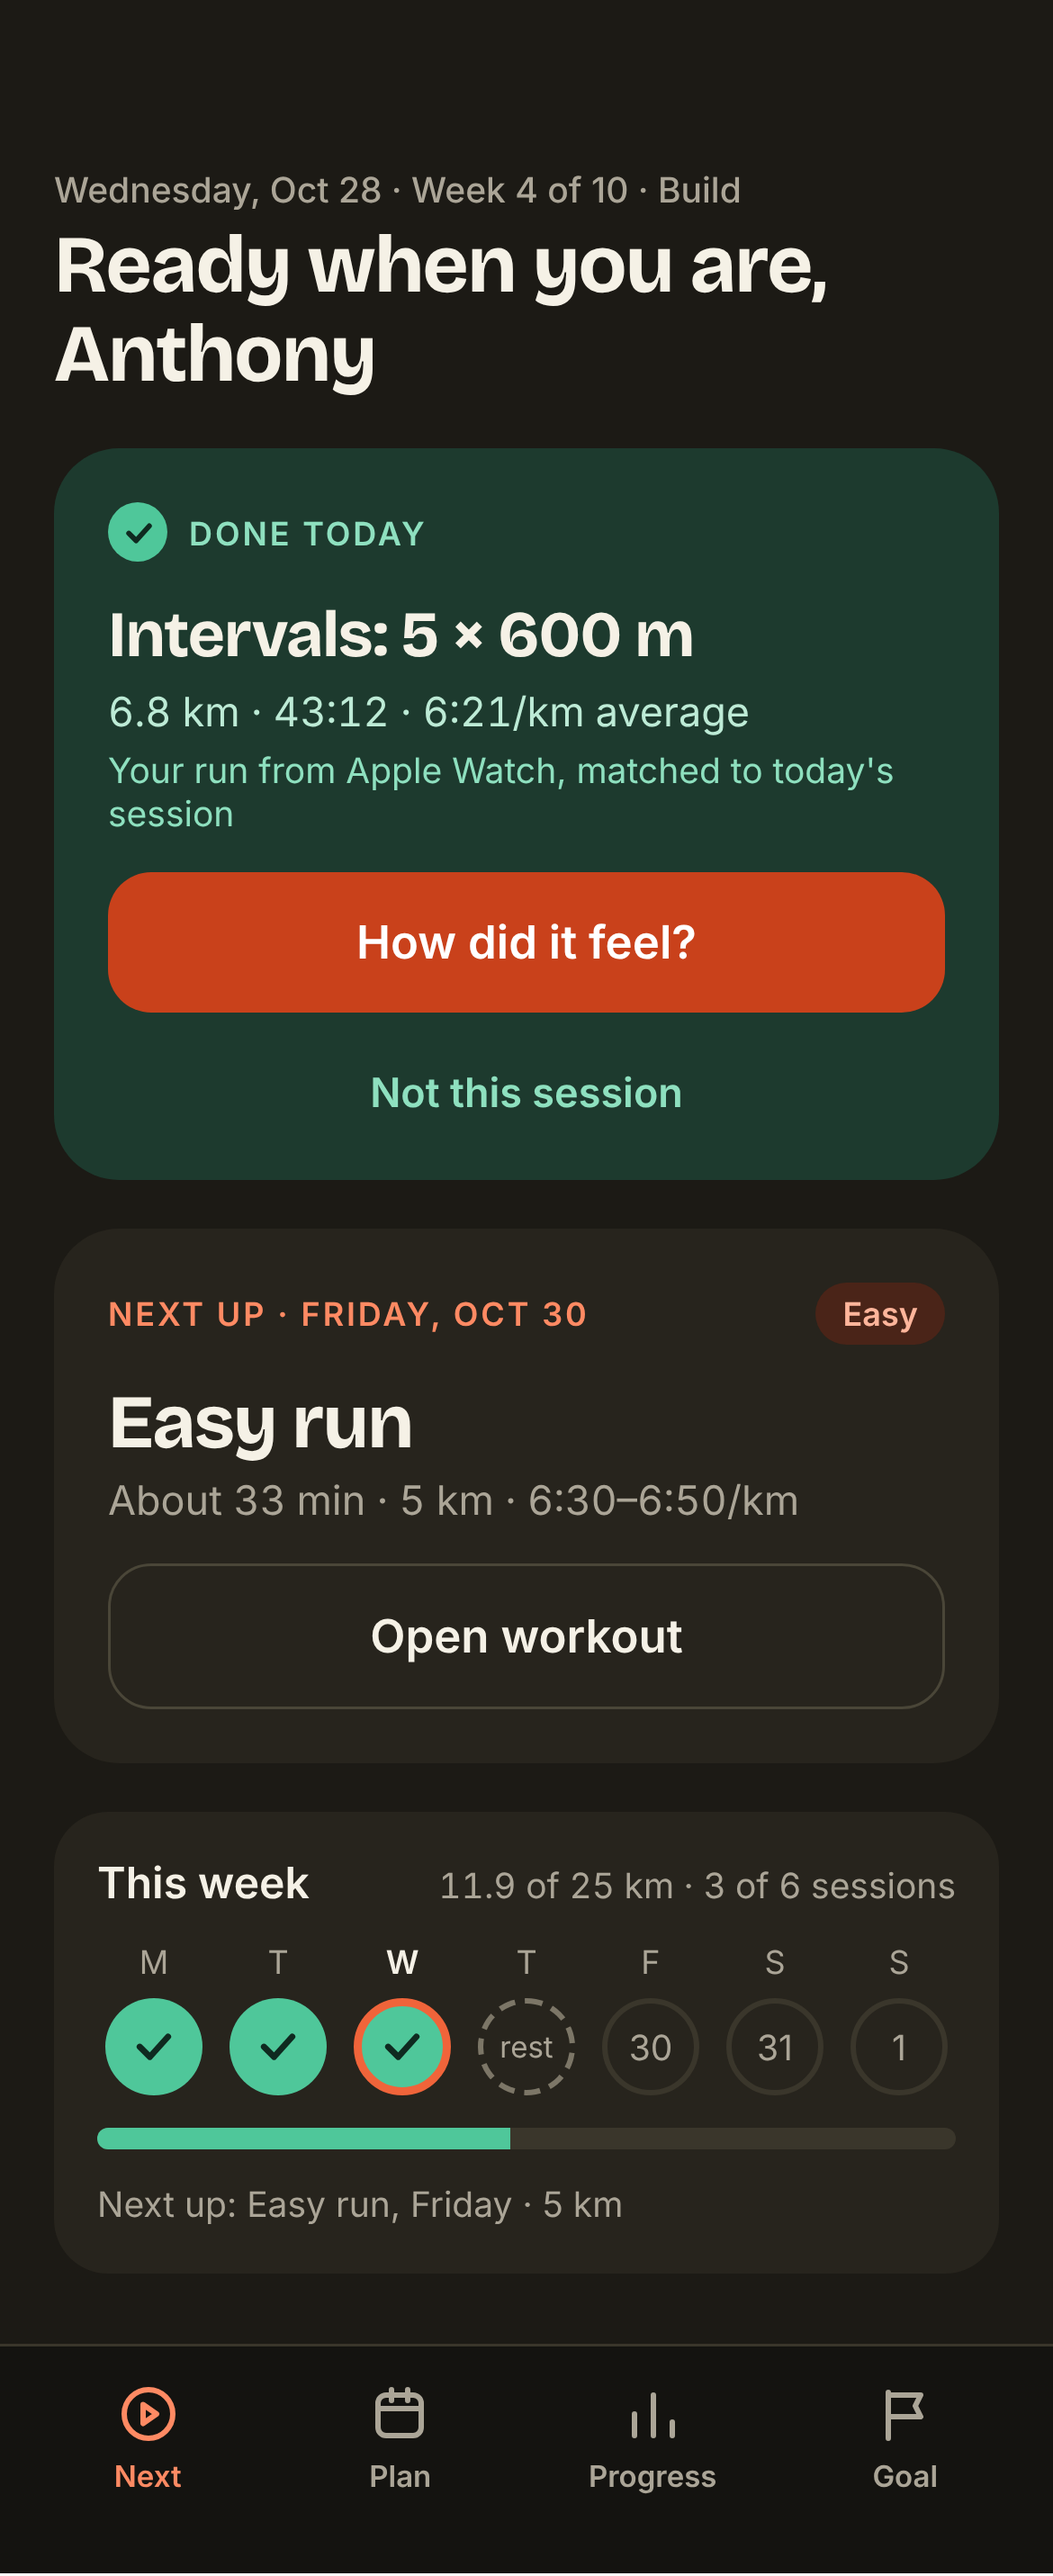
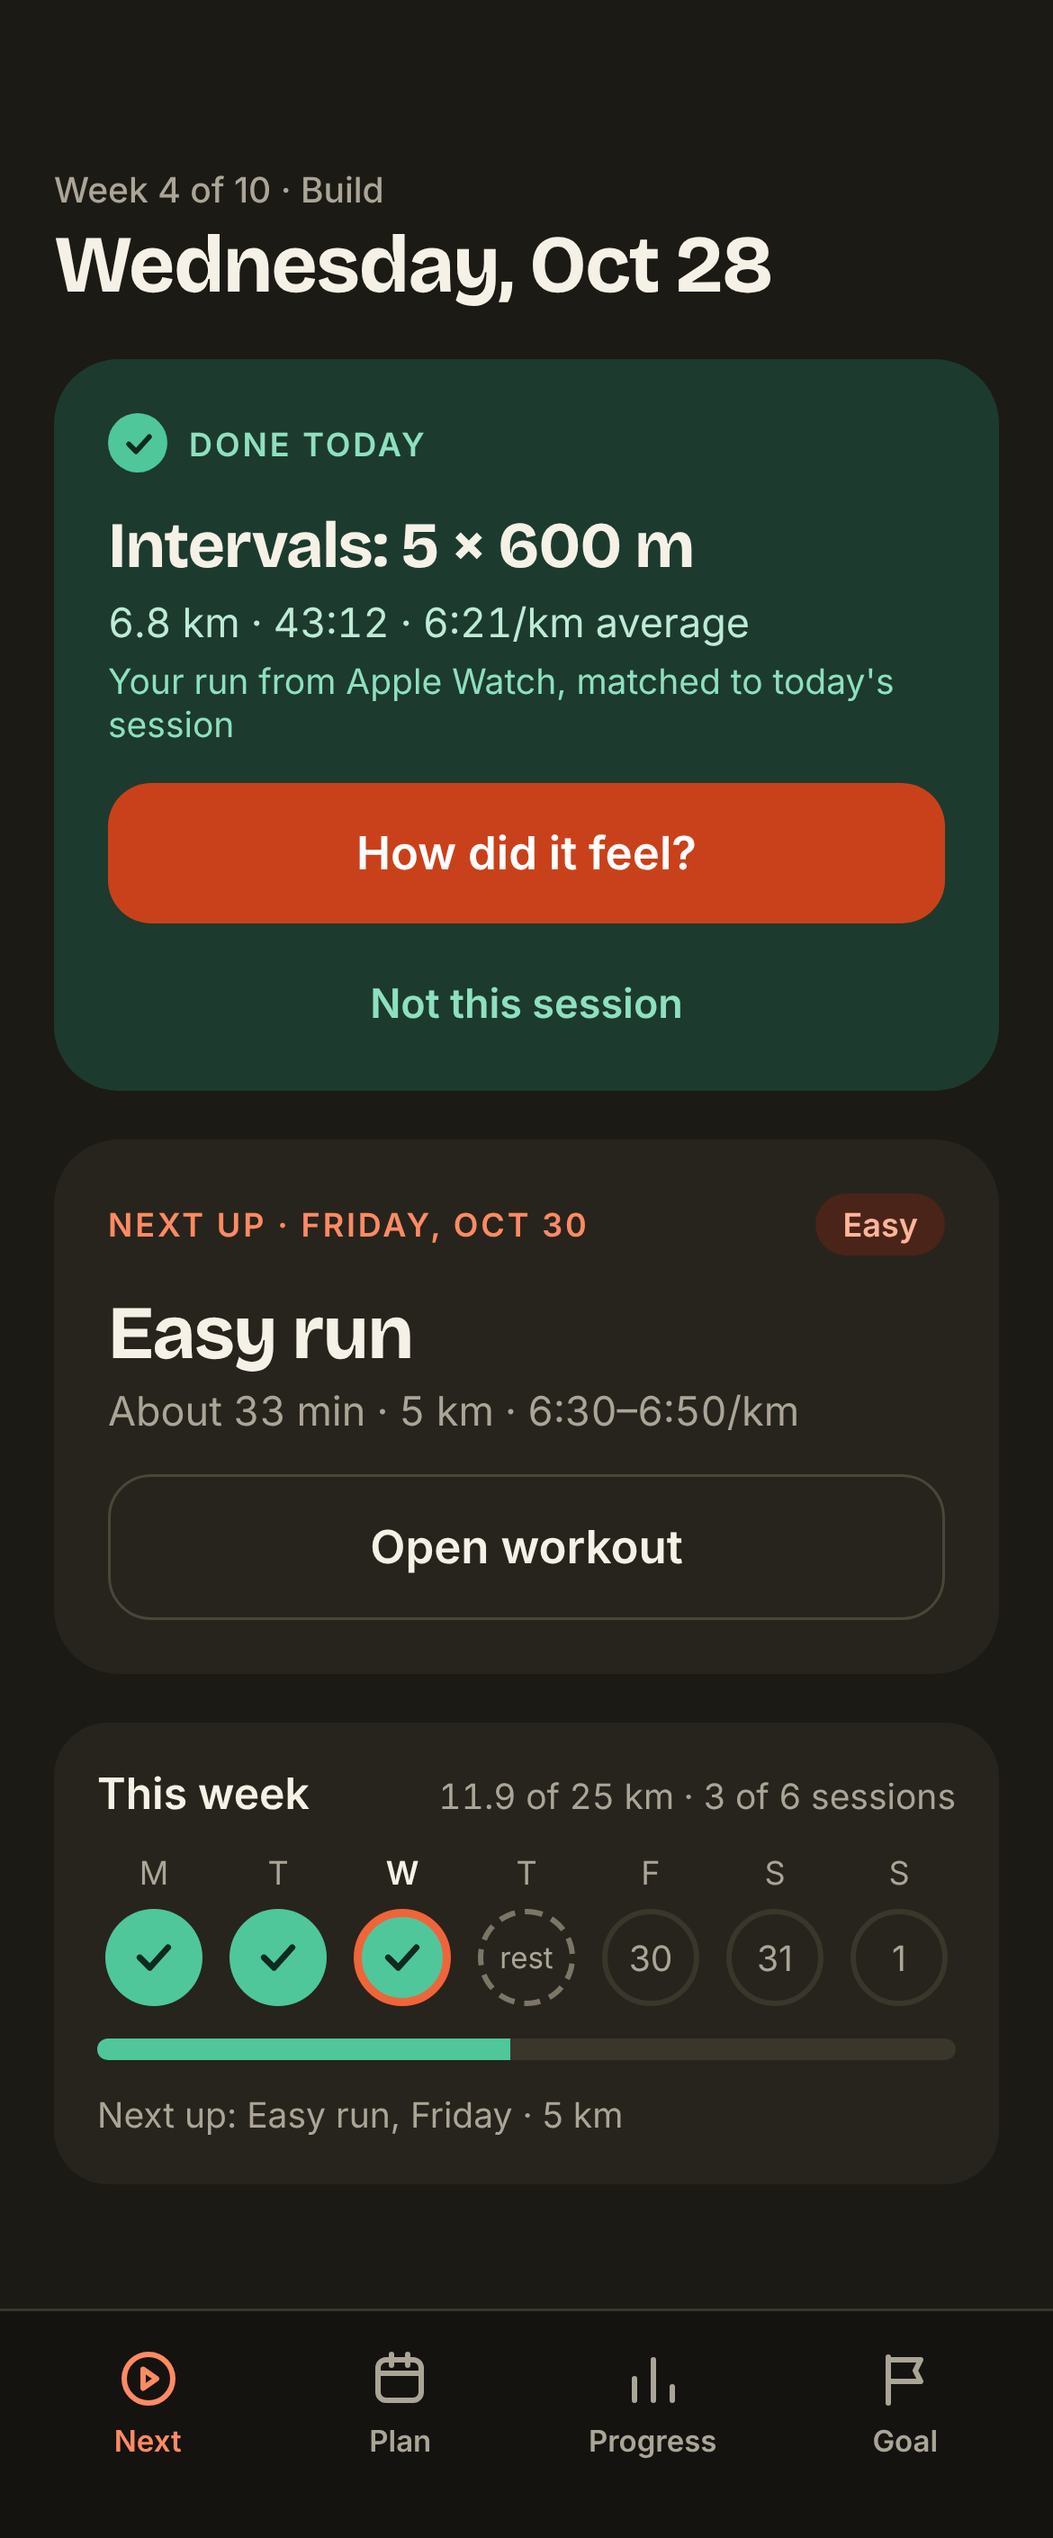
DK-NextMatched: drop the "Ready when you are" title; the date is the title
Refs #186

Claude-Session: https://claude.ai/code/session_01EHWUxbgExGT4dhRzQ7tmZq

diff --git a/designs/dark/DK-NextMatched.dc.html b/designs/dark/DK-NextMatched.dc.html
@@ -18,8 +18,8 @@ a{text-decoration:none;color:inherit}
 <div style="width:390px;min-height:940px;box-sizing:border-box;background:var(--bg);display:flex;flex-direction:column;font-family:'Inter',system-ui,sans-serif;color:var(--ink)">
   <div style="padding:62px 20px 0;display:flex;flex-direction:column;gap:18px;flex:1">
     <header style="display:flex;flex-direction:column;gap:4px">
-      <div style="font-size:13px;color:var(--muted);font-weight:500">Wednesday, Oct 28 · Week 4 of 10 · Build</div>
-      <h1 style="margin:0;font-family:'Bricolage Grotesque',system-ui,sans-serif;font-size:30px;line-height:1.1;font-weight:700;letter-spacing:-0.02em">Ready when you are, Anthony</h1>
+      <div style="font-size:13px;color:var(--muted);font-weight:500">Week 4 of 10 · Build</div>
+      <h1 style="margin:0;font-family:'Bricolage Grotesque',system-ui,sans-serif;font-size:30px;line-height:1.1;font-weight:700;letter-spacing:-0.02em">Wednesday, Oct 28</h1>
     </header>
 
     <!-- Issue #186: today's run was matched to its session on import. Shown until the check-in is saved or
